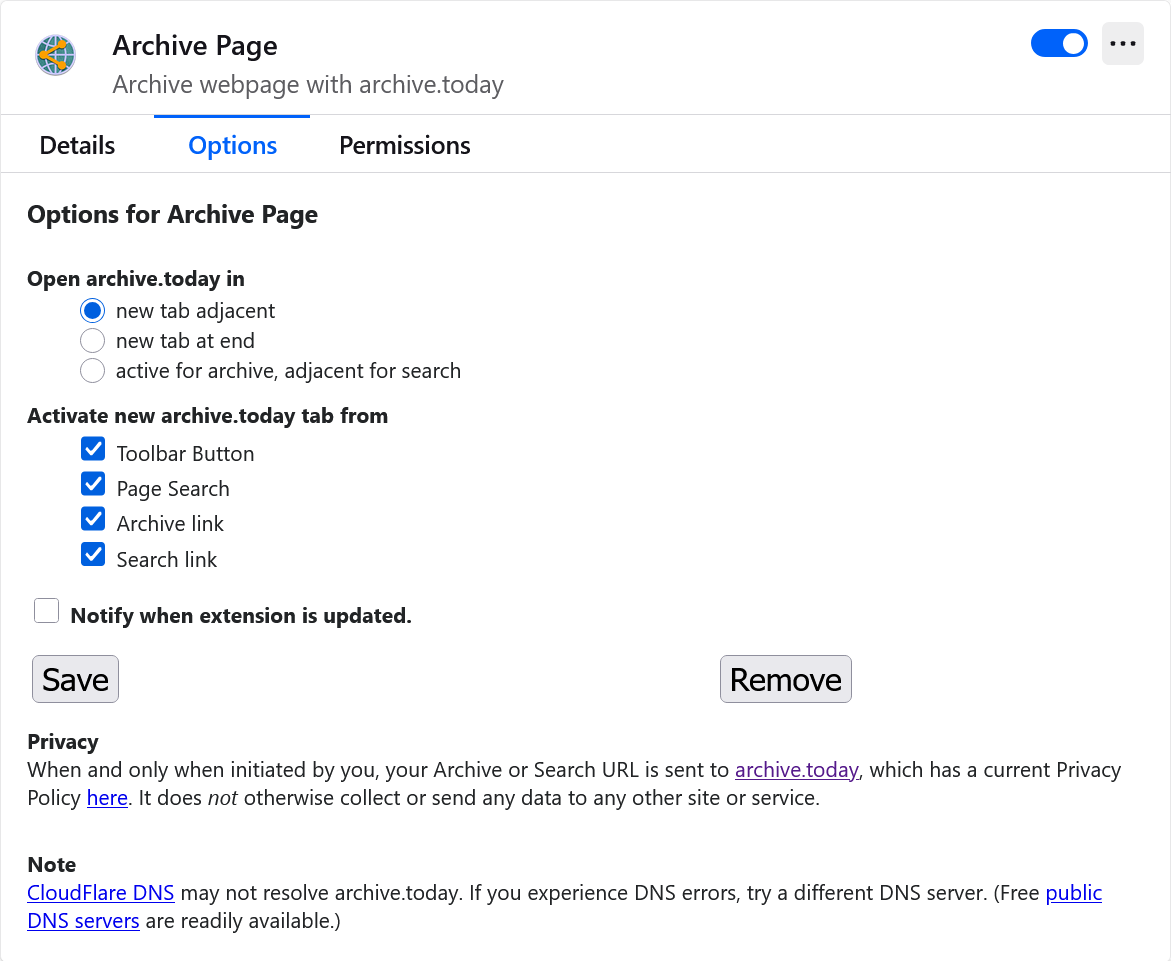
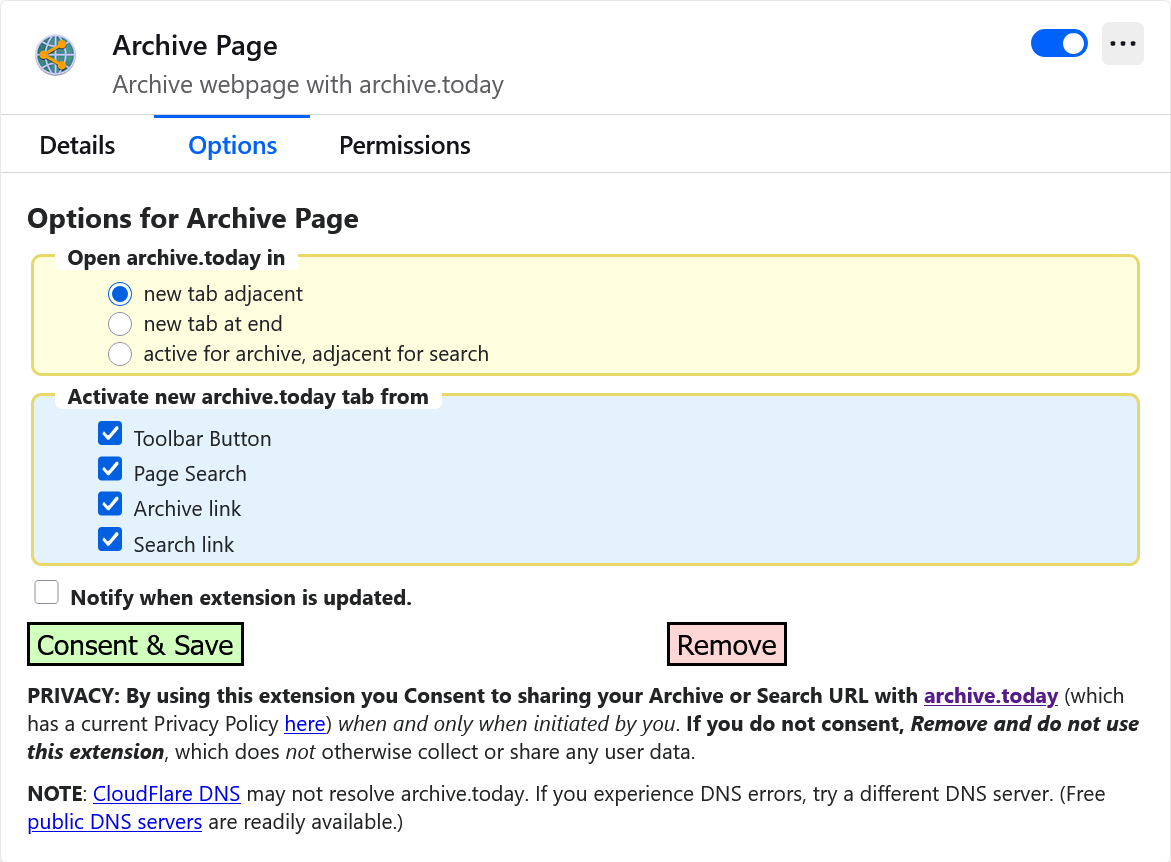
Privacy & Consent

diff --git a/src/Firefox/options.html b/src/Firefox/options.html
@@ -112,7 +112,7 @@
     <div class="responsive-flex" style="display: flex; align-items: center;">
         <button id="bSave" type="button"
             style="font-size: medium; background-color: #D1FFBD; border: 2px solid #000; color: #000;">
-            Save
+            Consent & Save
         </button>
         <script src="options.js"></script>
         <span style="display: inline-block; width: 40px;"></span>
@@ -125,7 +125,7 @@
         <script src="remove.js"></script>
     </div>
 
-    <p style="margin-top: 8px; margin-bottom: 8px;"><strong>PRIVACY: By using this extension you consent to sharing
+    <p style="margin-top: 8px; margin-bottom: 8px;"><strong>PRIVACY: By using this extension you Consent to sharing
             your Archive or Search URL
             with <a href="https://archive.today/">archive.today</a></strong> (which has a current Privacy Policy <a
             href="https://archive.today/faq#:~:text=Do%20you%20preserve%20archivers%27%20privacy%3F">here</a>)

diff --git a/src/Firefox/options.js b/src/Firefox/options.js
@@ -34,7 +34,7 @@ function save_options() {
     }, function () {
         // Update status to let user know options were saved.
         var status = document.getElementById('status');
-        status.textContent = 'Options saved.';
+        status.textContent = 'Saved!';
         setTimeout(function () {
             status.textContent = '';
         }, 750);
